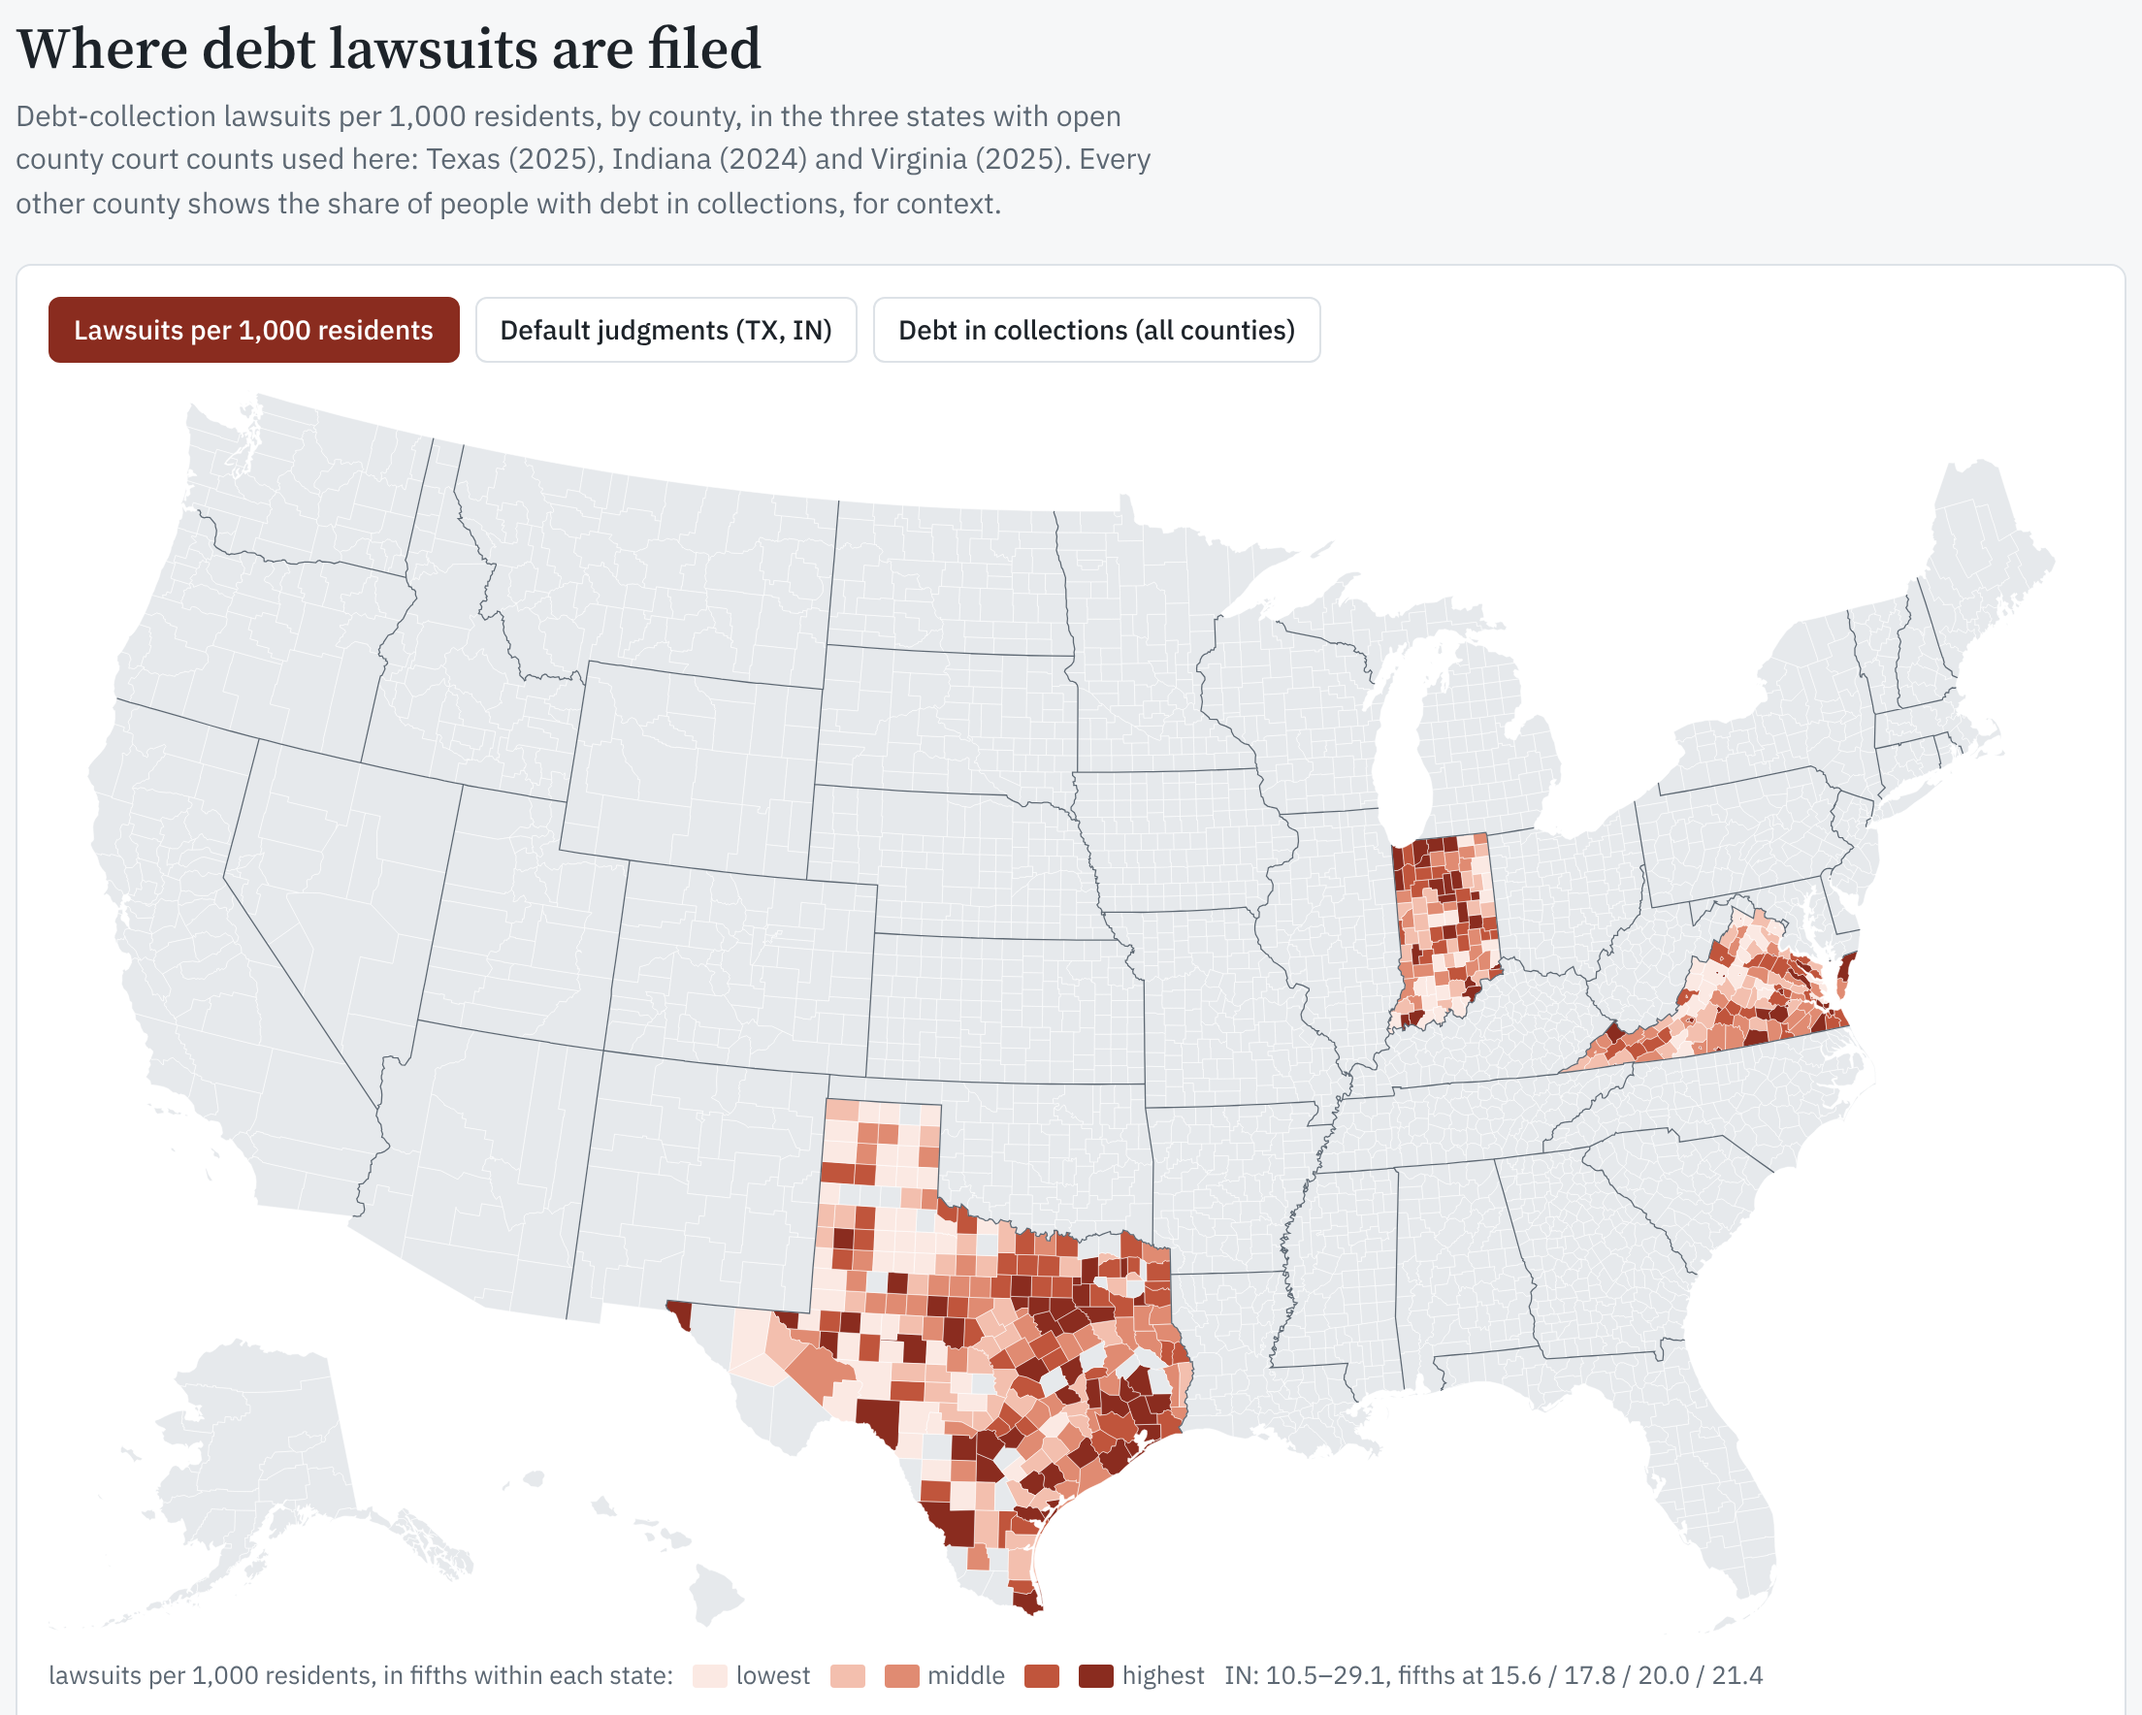
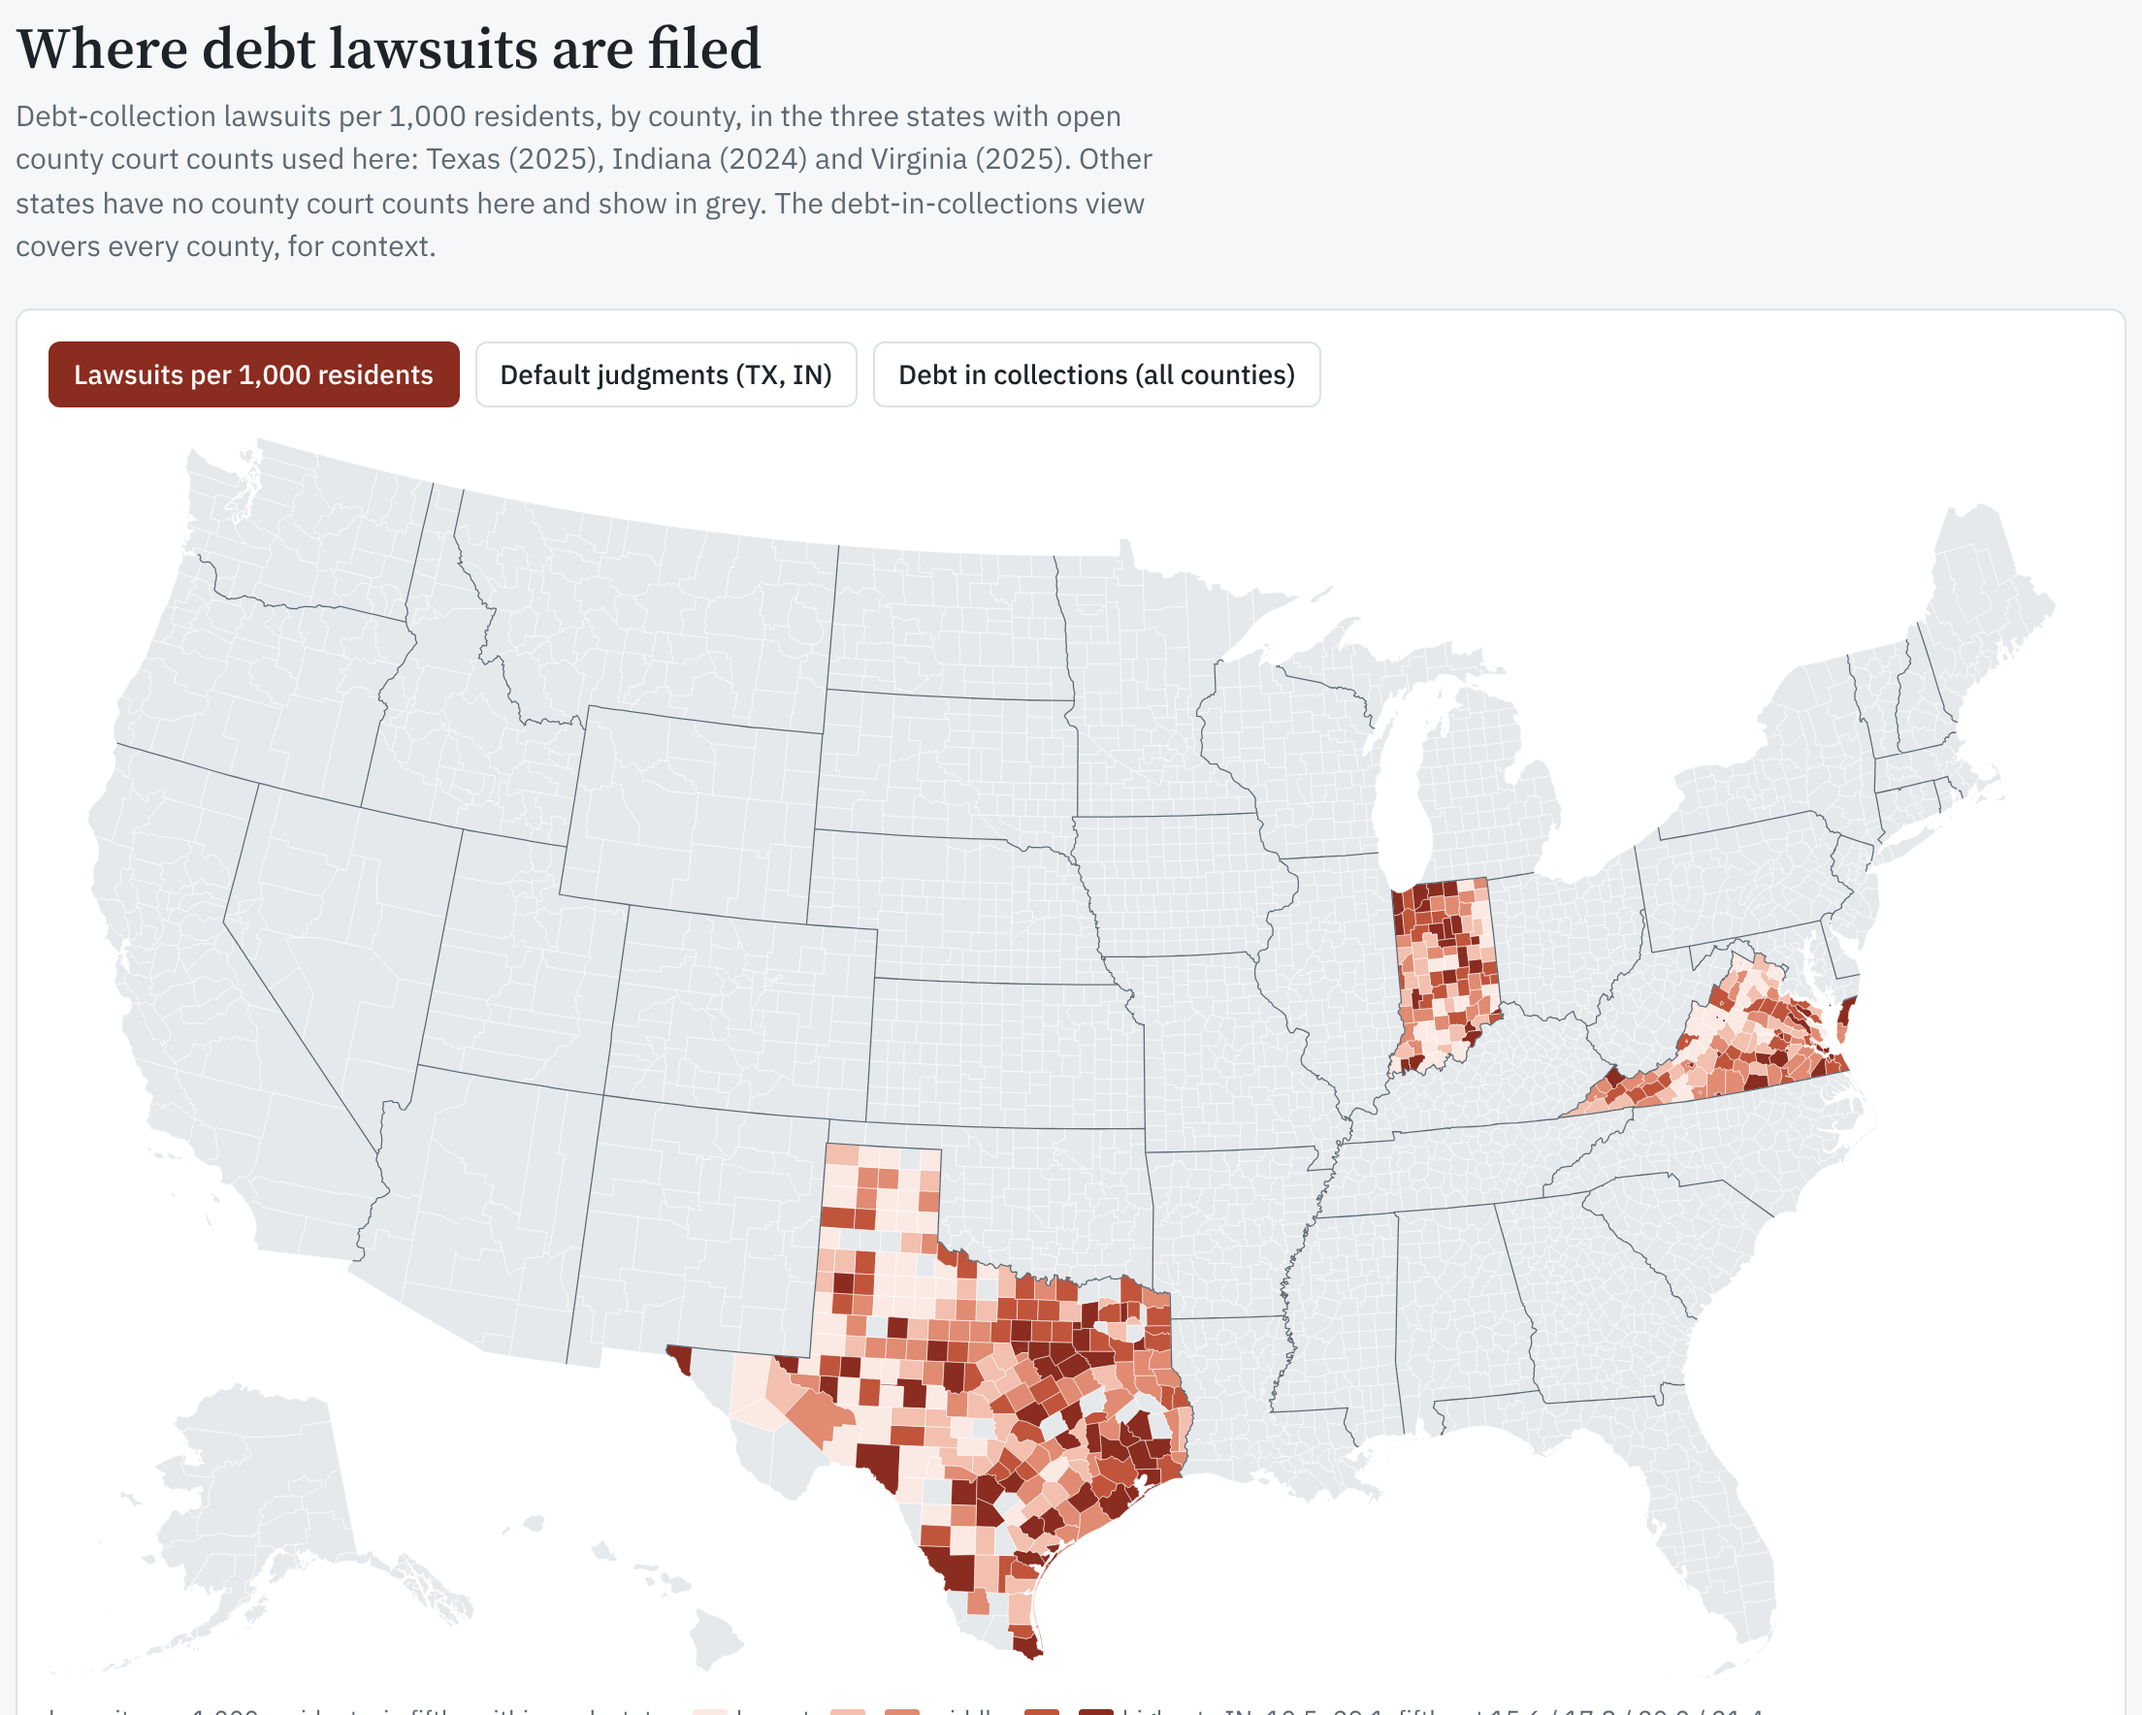
Map: say plainly that grey means no court data; label collections as context (#16)
- Lede no longer claims other counties are shaded by debt in collections.
- Tooltips name the state, say 'No county court counts for this state' on
  the lawsuit and default views, and show debt in collections as context
  (full wording on its own view).
- Screenshot refreshed.

Claude-Session: https://claude.ai/code/session_01W5RXKdavQwA2xwioe6Wacf

diff --git a/site/index.html b/site/index.html
@@ -46,6 +46,7 @@ h2 { font: 600 19px/1.25 var(--display); margin: 0 0 8px; text-wrap: balance; }
 #tip { position: fixed; pointer-events: none; background: var(--surface); border: 1px solid var(--line); border-radius: 6px;
   padding: 8px 10px; font-size: 13px; box-shadow: 0 4px 14px rgba(0,0,0,.15); display: none; max-width: 280px; z-index: 5; }
 #tip b { display: block; font-weight: 600; }
+#tip .muted { color: var(--muted); }
 .grid2 { display: grid; grid-template-columns: 1fr 1fr; gap: 20px; }
 @media (max-width: 760px) { .grid2 { grid-template-columns: 1fr; } }
 table { width: 100%; border-collapse: collapse; font-size: 13.5px; font-variant-numeric: tabular-nums; }
@@ -66,7 +67,7 @@ td.n, th.n { text-align: right; }
 <main>
   <header>
     <h1>Where debt lawsuits are filed</h1>
-    <p class="lede">Debt-collection lawsuits per 1,000 residents, by county, in the three states with open county court counts used here: Texas (2025), Indiana (2024) and Virginia (2025). Every other county shows the share of people with debt in collections, for context.</p>
+    <p class="lede">Debt-collection lawsuits per 1,000 residents, by county, in the three states with open county court counts used here: Texas (2025), Indiana (2024) and Virginia (2025). Other states have no county court counts here and show in grey. The debt-in-collections view covers every county, for context.</p>
   </header>
   <section class="panel">
     <div class="switch" role="group" aria-label="Map layer">
@@ -125,7 +126,7 @@ const cp = g.selectAll("path.county").data(counties).join("path").attr("class", 
 g.append("path").attr("class", "state").attr("d", path(states));
 const LAYERS = {
   f: { label: "lawsuits per 1,000 residents, in fifths within each state", perState: true, fmt: v => v.toFixed(1), get: d => d.f,
-       note: "Each state is shaded against its own counties, because the three states count cases differently (Virginia's category is broader). Hover for the actual rate. Grey: outside these states, or incomplete court reporting." },
+       note: "Each state is shaded against its own counties, because the three states count cases differently (Virginia's category is broader). Hover for the actual rate. Grey: no county court counts used for that state, or incomplete court reporting." },
   dr: { label: "% of disposed debt cases ending in default, in fifths within each state", perState: true, fmt: v => v.toFixed(0) + "%", get: d => d.dr,
         note: "Each state is shaded against its own counties. Virginia's filing report has no disposition breakdown, so it is blank on this layer." },
   c: { label: "% of people with debt in collections", fmt: v => v.toFixed(0) + "%", get: d => d.c,
@@ -158,15 +159,20 @@ function draw() {
   layer = k; document.querySelectorAll(".switch button").forEach(b => b.setAttribute("aria-pressed", b === e.currentTarget));
   draw(); }));
 const tip = d3.select("#tip");
+// State postal codes by FIPS prefix, so every tooltip names the state.
+const ST = {"01":"AL","02":"AK","04":"AZ","05":"AR","06":"CA","08":"CO","09":"CT","10":"DE","11":"DC","12":"FL","13":"GA","15":"HI","16":"ID","17":"IL","18":"IN","19":"IA","20":"KS","21":"KY","22":"LA","23":"ME","24":"MD","25":"MA","26":"MI","27":"MN","28":"MS","29":"MO","30":"MT","31":"NE","32":"NV","33":"NH","34":"NJ","35":"NM","36":"NY","37":"NC","38":"ND","39":"OH","40":"OK","41":"OR","42":"PA","44":"RI","45":"SC","46":"SD","47":"TN","48":"TX","49":"UT","50":"VT","51":"VA","53":"WA","54":"WV","55":"WI","56":"WY","72":"PR"};
 cp.on("mousemove", (ev, f) => {
-  const d = data[f.id] || {}, nm = f.properties.name;
-  let h = `<b>${nm}${d.st ? ", " + d.st : ""}</b>`;
+  const d = data[f.id] || {}, nm = f.properties.name, st = d.st || ST[String(f.id).slice(0, 2)];
+  let h = `<b>${nm}${st ? ", " + st : ""}</b>`;
   if (d.court && d.court !== nm) h += `<div>Court: ${d.court}</div>`;
   if (d.f != null) h += `<div>${d.n.toLocaleString()} filed in ${d.y} · ${d.f.toFixed(1)} per 1K</div>`;
+  else if (layer !== "c" && !d.note) h += `<div class="muted">No county court counts for this state</div>`;
   if (d.note) h += `<div>${d.note}</div>`;
   if (d.dr != null) h += `<div>${d.dr.toFixed(0)}% of disposed cases were defaults</div>`;
   if (d.g != null) h += `<div>Garnishments: ${d.g.toFixed(1)} per 1K</div>`;
-  if (d.c != null) h += `<div>${d.c.toFixed(0)}% with debt in collections</div>`;
+  if (d.c != null) h += layer === "c"
+    ? `<div>${d.c.toFixed(0)}% of people with a credit record have debt in collections</div>`
+    : `<div class="muted">Context: ${d.c.toFixed(0)}% with debt in collections</div>`;
   tip.html(h).style("display", "block").style("left", Math.min(ev.clientX + 14, innerWidth - 290) + "px").style("top", (ev.clientY + 14) + "px");
 }).on("mouseleave", () => tip.style("display", "none"));
 // Trend chart

diff --git a/scripts/lawsuits_map.py b/scripts/lawsuits_map.py
@@ -116,6 +116,7 @@ h2 { font: 600 19px/1.25 var(--display); margin: 0 0 8px; text-wrap: balance; }
 #tip { position: fixed; pointer-events: none; background: var(--surface); border: 1px solid var(--line); border-radius: 6px;
   padding: 8px 10px; font-size: 13px; box-shadow: 0 4px 14px rgba(0,0,0,.15); display: none; max-width: 280px; z-index: 5; }
 #tip b { display: block; font-weight: 600; }
+#tip .muted { color: var(--muted); }
 .grid2 { display: grid; grid-template-columns: 1fr 1fr; gap: 20px; }
 @media (max-width: 760px) { .grid2 { grid-template-columns: 1fr; } }
 table { width: 100%; border-collapse: collapse; font-size: 13.5px; font-variant-numeric: tabular-nums; }
@@ -136,7 +137,7 @@ td.n, th.n { text-align: right; }
 <main>
   <header>
     <h1>Where debt lawsuits are filed</h1>
-    <p class="lede">Debt-collection lawsuits per 1,000 residents, by county, in the three states with open county court counts used here: Texas ({{TX_YEAR}}), Indiana ({{IN_YEAR}}) and Virginia (2025). Every other county shows the share of people with debt in collections, for context.</p>
+    <p class="lede">Debt-collection lawsuits per 1,000 residents, by county, in the three states with open county court counts used here: Texas ({{TX_YEAR}}), Indiana ({{IN_YEAR}}) and Virginia (2025). Other states have no county court counts here and show in grey. The debt-in-collections view covers every county, for context.</p>
   </header>
   <section class="panel">
     <div class="switch" role="group" aria-label="Map layer">
@@ -195,7 +196,7 @@ const cp = g.selectAll("path.county").data(counties).join("path").attr("class", 
 g.append("path").attr("class", "state").attr("d", path(states));
 const LAYERS = {
   f: { label: "lawsuits per 1,000 residents, in fifths within each state", perState: true, fmt: v => v.toFixed(1), get: d => d.f,
-       note: "Each state is shaded against its own counties, because the three states count cases differently (Virginia's category is broader). Hover for the actual rate. Grey: outside these states, or incomplete court reporting." },
+       note: "Each state is shaded against its own counties, because the three states count cases differently (Virginia's category is broader). Hover for the actual rate. Grey: no county court counts used for that state, or incomplete court reporting." },
   dr: { label: "% of disposed debt cases ending in default, in fifths within each state", perState: true, fmt: v => v.toFixed(0) + "%", get: d => d.dr,
         note: "Each state is shaded against its own counties. Virginia's filing report has no disposition breakdown, so it is blank on this layer." },
   c: { label: "% of people with debt in collections", fmt: v => v.toFixed(0) + "%", get: d => d.c,
@@ -228,15 +229,20 @@ function draw() {
   layer = k; document.querySelectorAll(".switch button").forEach(b => b.setAttribute("aria-pressed", b === e.currentTarget));
   draw(); }));
 const tip = d3.select("#tip");
+// State postal codes by FIPS prefix, so every tooltip names the state.
+const ST = {"01":"AL","02":"AK","04":"AZ","05":"AR","06":"CA","08":"CO","09":"CT","10":"DE","11":"DC","12":"FL","13":"GA","15":"HI","16":"ID","17":"IL","18":"IN","19":"IA","20":"KS","21":"KY","22":"LA","23":"ME","24":"MD","25":"MA","26":"MI","27":"MN","28":"MS","29":"MO","30":"MT","31":"NE","32":"NV","33":"NH","34":"NJ","35":"NM","36":"NY","37":"NC","38":"ND","39":"OH","40":"OK","41":"OR","42":"PA","44":"RI","45":"SC","46":"SD","47":"TN","48":"TX","49":"UT","50":"VT","51":"VA","53":"WA","54":"WV","55":"WI","56":"WY","72":"PR"};
 cp.on("mousemove", (ev, f) => {
-  const d = data[f.id] || {}, nm = f.properties.name;
-  let h = `<b>${nm}${d.st ? ", " + d.st : ""}</b>`;
+  const d = data[f.id] || {}, nm = f.properties.name, st = d.st || ST[String(f.id).slice(0, 2)];
+  let h = `<b>${nm}${st ? ", " + st : ""}</b>`;
   if (d.court && d.court !== nm) h += `<div>Court: ${d.court}</div>`;
   if (d.f != null) h += `<div>${d.n.toLocaleString()} filed in ${d.y} · ${d.f.toFixed(1)} per 1K</div>`;
+  else if (layer !== "c" && !d.note) h += `<div class="muted">No county court counts for this state</div>`;
   if (d.note) h += `<div>${d.note}</div>`;
   if (d.dr != null) h += `<div>${d.dr.toFixed(0)}% of disposed cases were defaults</div>`;
   if (d.g != null) h += `<div>Garnishments: ${d.g.toFixed(1)} per 1K</div>`;
-  if (d.c != null) h += `<div>${d.c.toFixed(0)}% with debt in collections</div>`;
+  if (d.c != null) h += layer === "c"
+    ? `<div>${d.c.toFixed(0)}% of people with a credit record have debt in collections</div>`
+    : `<div class="muted">Context: ${d.c.toFixed(0)}% with debt in collections</div>`;
   tip.html(h).style("display", "block").style("left", Math.min(ev.clientX + 14, innerWidth - 290) + "px").style("top", (ev.clientY + 14) + "px");
 }).on("mouseleave", () => tip.style("display", "none"));
 // Trend chart
